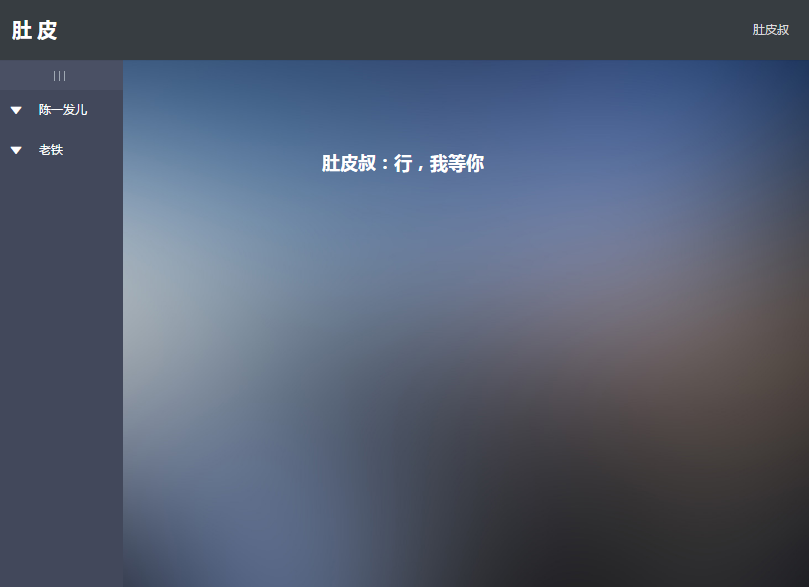
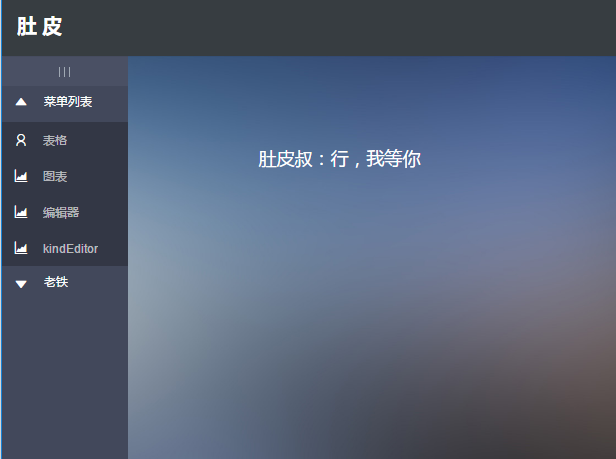
杜显威 更新截图

diff --git a/readme.md b/readme.md
@@ -96,11 +96,21 @@ https://pan.baidu.com/s/1o8mOrV0
 
 <img src="https://github.com/duxianwei520/react/blob/master/screenshots/welcome.png" width="1010" height="566"/>
 
-
-
 ### 列表页
 
 <img src="https://github.com/duxianwei520/react/blob/master/screenshots/list.png" width="1002" height="582"/>
+
+### 图表
+
+<img src="https://github.com/duxianwei520/react/blob/master/screenshots/echart.png" width="674" height="513"/>
+
+### Facebook官方富文本编辑器draft.js
+
+<img src="https://github.com/duxianwei520/react/blob/master/screenshots/draft.png" width="675" height="414"/>
+
+### 富文本编辑器kindeditor
+
+<img src="https://github.com/duxianwei520/react/blob/master/screenshots/kindeditor.png" width="580" height="398"/>
 
 ### 请求接口
 
@@ -112,6 +122,9 @@ https://pan.baidu.com/s/1o8mOrV0
 <img src="https://github.com/duxianwei520/react/blob/master/screenshots/receiveData.png" width="997" height="586"/>
 
 
+### 构建完成的包的分析截图
+
+<img src="https://github.com/duxianwei520/react/blob/master/screenshots/analysis.png" width="1101" height="555"/>
 
 
 ## 项目结构
